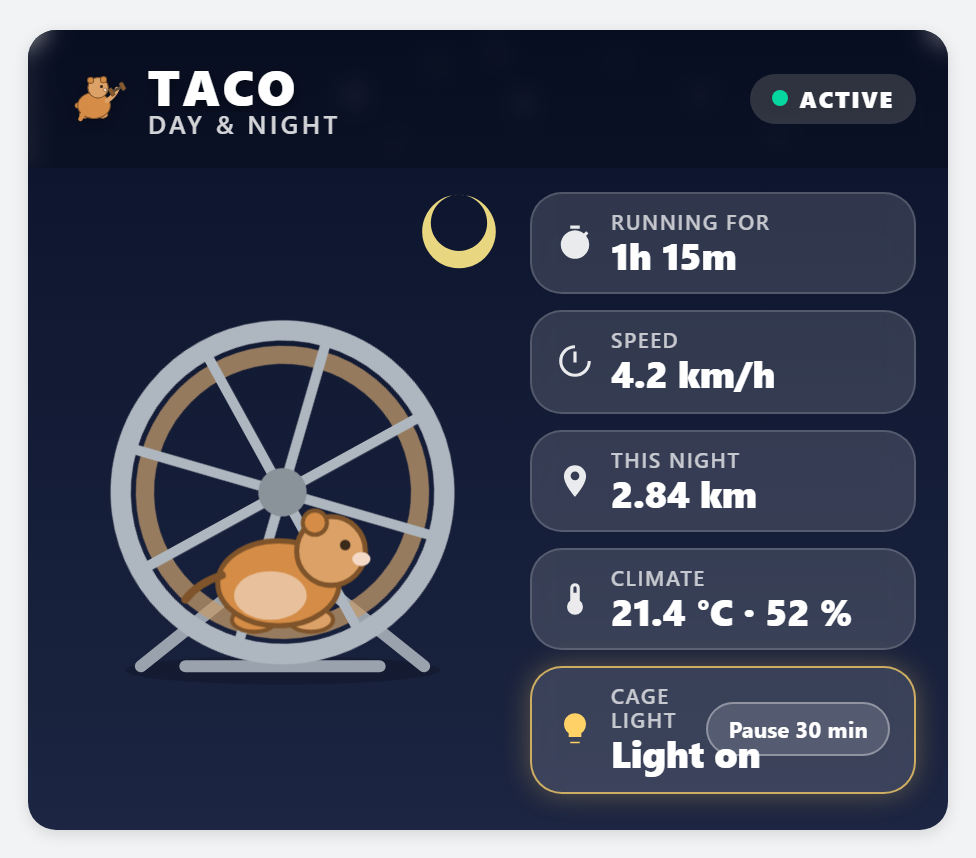
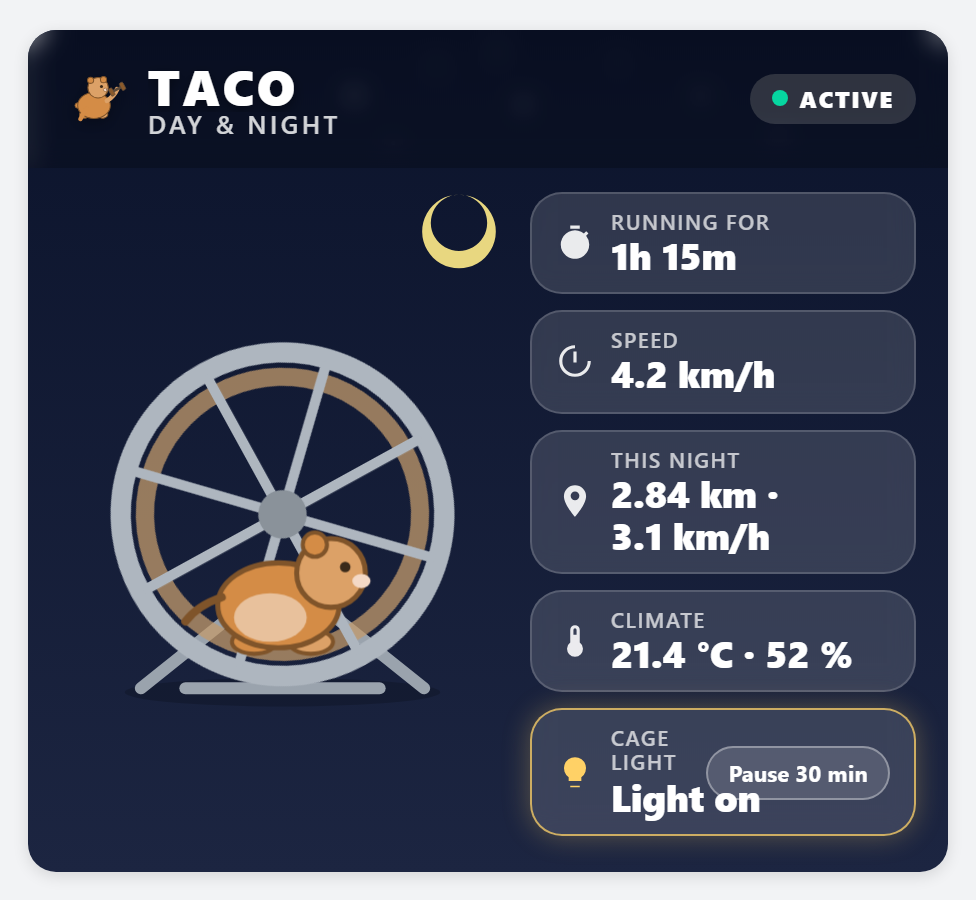
Stop the two-part chip values overflowing their pill
Adding the night's average speed alongside the distance roughly doubled
that chip's value string, and it outgrew the pill on every card narrower
than about 560px - which is most real dashboard columns. The climate
chip's "21.4 °C · 52 %" had the same shape and was only getting away
with it by being shorter.

Caught by measuring scrollWidth against clientWidth at several card
widths rather than by looking: the release screenshot at 460px showed
the text touching the edge, which reads as "tight" but was actually 30px
of overflow.

The blanket `white-space: nowrap` on the value is what forced it. Values
may now wrap between their parts, with each part its own nowrap span so
a number can never separate from its unit - "4.2" and "km/h" stay
together, "2.84 km ·" and "3.1 km/h" may split across two lines. Every
chip value is wrapped that way, not just the two-part ones, since
removing the blanket rule would otherwise have let the single values
break mid-unit.

Also nudges the value size down inside the existing narrow-card media
query, which measurably fixes the phone case (400px viewport: clean at
every card width, including 300px).

One case is knowingly left: a ~300px card inside a wide desktop viewport
- a narrow sidebar column - still overflows by 19px. That media query
keys off the viewport, not the card, so it cannot fire there; fixing it
properly needs container queries and a look at the whole card layout,
which is not a change to make while cutting a release.
[…]

diff --git a/custom_components/hamster_fitness/frontend/hamster-day-night-card.js b/custom_components/hamster_fitness/frontend/hamster-day-night-card.js
@@ -704,7 +704,7 @@ class HamsterDayNightCard extends HTMLElement {
         <svg class="hdn-chip-icon" viewBox="0 0 24 24" aria-hidden="true"><path d="${ICONS.light}"/></svg>
         <span class="hdn-chip-text">
           <span class="hdn-chip-label hdn-clickable" data-entity="${switchId}" tabindex="0" role="button">${t(this._hass, "dayNight.cageLight")}</span>
-          <span class="hdn-chip-value">${statusText}</span>
+          <span class="hdn-chip-value"><span>${statusText}</span></span>
         </span>
         ${button}
       </div>
@@ -799,7 +799,7 @@ class HamsterDayNightCard extends HTMLElement {
         this._chip({
           icon: ICONS.timer,
           label: t(this._hass, "dayNight.runningFor"),
-          value: fmtDuration(this._hass, activeMinutes),
+          value: `<span>${fmtDuration(this._hass, activeMinutes)}</span>`,
           entity: this._entityId("night_active_duration"),
         })
       );
@@ -813,7 +813,7 @@ class HamsterDayNightCard extends HTMLElement {
         this._chip({
           icon: ICONS.timer,
           label: t(this._hass, "dayNight.restingFor"),
-          value: fmtDuration(this._hass, dayRest && dayRest.state),
+          value: `<span>${fmtDuration(this._hass, dayRest && dayRest.state)}</span>`,
           entity: this._entityId("day_rest_duration"),
           badge:
             door && door.state === "on" ? t(this._hass, "dayNight.lidOpen") : "",
@@ -825,7 +825,7 @@ class HamsterDayNightCard extends HTMLElement {
         this._chip({
           icon: ICONS.speed,
           label: t(this._hass, "dayNight.speed"),
-          value: fmtNumber(this._hass, currentSpeed && currentSpeed.state, 1, "km/h"),
+          value: `<span>${fmtNumber(this._hass, currentSpeed && currentSpeed.state, 1, "km/h")}</span>`,
           entity: this._entityId("current_speed"),
         })
       );
@@ -842,8 +842,8 @@ class HamsterDayNightCard extends HTMLElement {
       const distanceText = fmtNumber(this._hass, nightDistance && nightDistance.state, 2, "km");
       const value =
         nightAvgSpeed === null || nightAvgSpeed === undefined
-          ? distanceText
-          : `${distanceText} · ${fmtNumber(this._hass, nightAvgSpeed, 1, "km/h")}`;
+          ? `<span>${distanceText}</span>`
+          : `<span>${distanceText} ·</span> <span>${fmtNumber(this._hass, nightAvgSpeed, 1, "km/h")}</span>`;
       chips.push(
         this._chip({
           icon: ICONS.distance,
@@ -855,8 +855,8 @@ class HamsterDayNightCard extends HTMLElement {
     }
     if (this._config.show_climate) {
       const climate = humidity
-        ? `${fmtNumber(this._hass, temperature, 1, "°C")} · ${fmtNumber(this._hass, humidity.state, 0, "%")}`
-        : fmtNumber(this._hass, temperature, 1, "°C");
+        ? `<span>${fmtNumber(this._hass, temperature, 1, "°C")} ·</span> <span>${fmtNumber(this._hass, humidity.state, 0, "%")}</span>`
+        : `<span>${fmtNumber(this._hass, temperature, 1, "°C")}</span>`;
       // Tapping this chip used to open the health score, because the
       // card renders the temperature from an attribute and had no
       // reference to the sensor behind it. The coordinator now publishes
@@ -1096,6 +1096,13 @@ HamsterDayNightCard.styles = `
   .hdn-chip-value {
     font-size: 1.15em;
     font-weight: 800;
+  }
+  /* Chips that combine two readings ("2.84 km · 3.1 km/h", "21.4 °C ·
+     52 %") outgrew their pill on any card narrower than ~560px once the
+     night average was added. The value may now wrap between its parts -
+     each part is its own nowrap span, so a number never separates from
+     its unit. */
+  .hdn-chip-value > span {
     white-space: nowrap;
   }
   .hdn-chip-lit {
@@ -1218,6 +1225,13 @@ HamsterDayNightCard.styles = `
     }
     .hdn-chip {
       flex: 1 1 45%;
+    }
+    /* Two chips per row leaves each about 45% of an already narrow card,
+       which the two-part values (distance + average speed, temperature +
+       humidity) still outgrow even when wrapped. A touch smaller here
+       rather than clipped. */
+    .hdn-chip-value {
+      font-size: 1.02em;
     }
     .hdn-chip-wide {
       flex-basis: 100%;

diff --git a/tools/card-preview/screenshots.html b/tools/card-preview/screenshots.html
@@ -73,7 +73,7 @@ function makeCard(tag, config, hass) {
 
 const HEALTH = "sensor.hamster_taco_health_score";
 
-function baseHass({ night, active, speed, lightOn, coat = "#D48C46" }) {
+function baseHass({ night, active, speed, lightOn, coat = "#D48C46", weather = null }) {
   return {
     language: LANG,
     states: {
@@ -100,8 +100,11 @@ function baseHass({ night, active, speed, lightOn, coat = "#D48C46" }) {
           acquisition_date: "2025-11-02",
           temperature_entity: "sensor.cage_temperature",
           humidity_entity: "sensor.cage_humidity",
+          weather_entity: weather ? "weather.home" : null,
+          night_avg_speed_kmh: 3.1,
         },
       },
+      ...(weather ? { "weather.home": { state: weather, attributes: {} } } : {}),
     },
     entities: {
       [HEALTH]: { device_id: "d1", translation_key: "health_score" },
@@ -236,6 +239,11 @@ shot("shot-day-night").appendChild(
 shot("shot-day-night-rest").appendChild(
   makeCard("hamster-day-night-card", { entity: HEALTH },
     baseHass({ night: false, active: false, speed: 0, lightOn: false })));
+
+shot("shot-day-night-weather").appendChild(
+  makeCard("hamster-day-night-card", { entity: HEALTH },
+    baseHass({ night: false, active: true, speed: 4.2, lightOn: false,
+               weather: "pouring" })));
 
 shot("shot-chronicle", true).appendChild(
   makeCard("hamster-chronicle-card",

diff --git a/tools/capture_screenshots.py b/tools/capture_screenshots.py
@@ -34,6 +34,7 @@ SHOTS = {
     "shot-health-modal": "card-health-score-pillar.png",
     "shot-day-night": "card-day-night-active.png",
     "shot-day-night-rest": "card-day-night-resting.png",
+    "shot-day-night-weather": "card-day-night-weather.png",
     "shot-chronicle": "card-chronicle.png",
     "shot-ranking": "card-ranking.png",
     "shot-weight": "card-weight-syrian.png",

diff --git a/custom_components/hamster_fitness/const.py b/custom_components/hamster_fitness/const.py
@@ -329,7 +329,7 @@ JS_MODULES: Final[list[dict[str, str]]] = [
     {
         "name": "Hamster Day & Night Card",
         "filename": "hamster-day-night-card.js",
-        "version": "13",
+        "version": "14",
     },
     {
         "name": "Hamster Chronicle Card",

diff --git a/README.md b/README.md
@@ -1,6 +1,6 @@
 # Hamster Fitness — Integration (Software)
 
-[![Version](https://img.shields.io/badge/version-0.4.0-blue.svg)](custom_components/hamster_fitness/manifest.json)
+[![Version](https://img.shields.io/badge/version-0.6.0-blue.svg)](custom_components/hamster_fitness/manifest.json)
 [![License](https://img.shields.io/badge/license-Apache%202.0-blue.svg)](LICENSE)
 [![HACS Custom](https://img.shields.io/badge/HACS-Custom-orange.svg)](https://github.com/hacs/integration)
 [![Home Assistant](https://img.shields.io/badge/Home%20Assistant-2026.3%2B-41BDF5.svg)](https://www.home-assistant.io/)
@@ -153,6 +153,12 @@ hamster dozing at 2 a.m. is drawn asleep under a night sky rather than
 running just because it is dark.
 
 <img src="docs/images/card-day-night-active.png" alt="Day & Night card at night, hamster running in the wheel, readings as chips" width="420"> <img src="docs/images/card-day-night-resting.png" alt="Day & Night card by day, hamster asleep in its nest" width="420">
+
+Pick a weather entity during setup and the weather drifts over the scene
+too — all fifteen Home Assistant conditions, from drifting cloud to
+lightning:
+
+<img src="docs/images/card-day-night-weather.png" alt="Day & Night card with rain falling over the scene and the sky dimmed" width="420">
 
 Every chip is tappable: the readings open their own entity, and the cage
 light chip switches the lamp directly.
